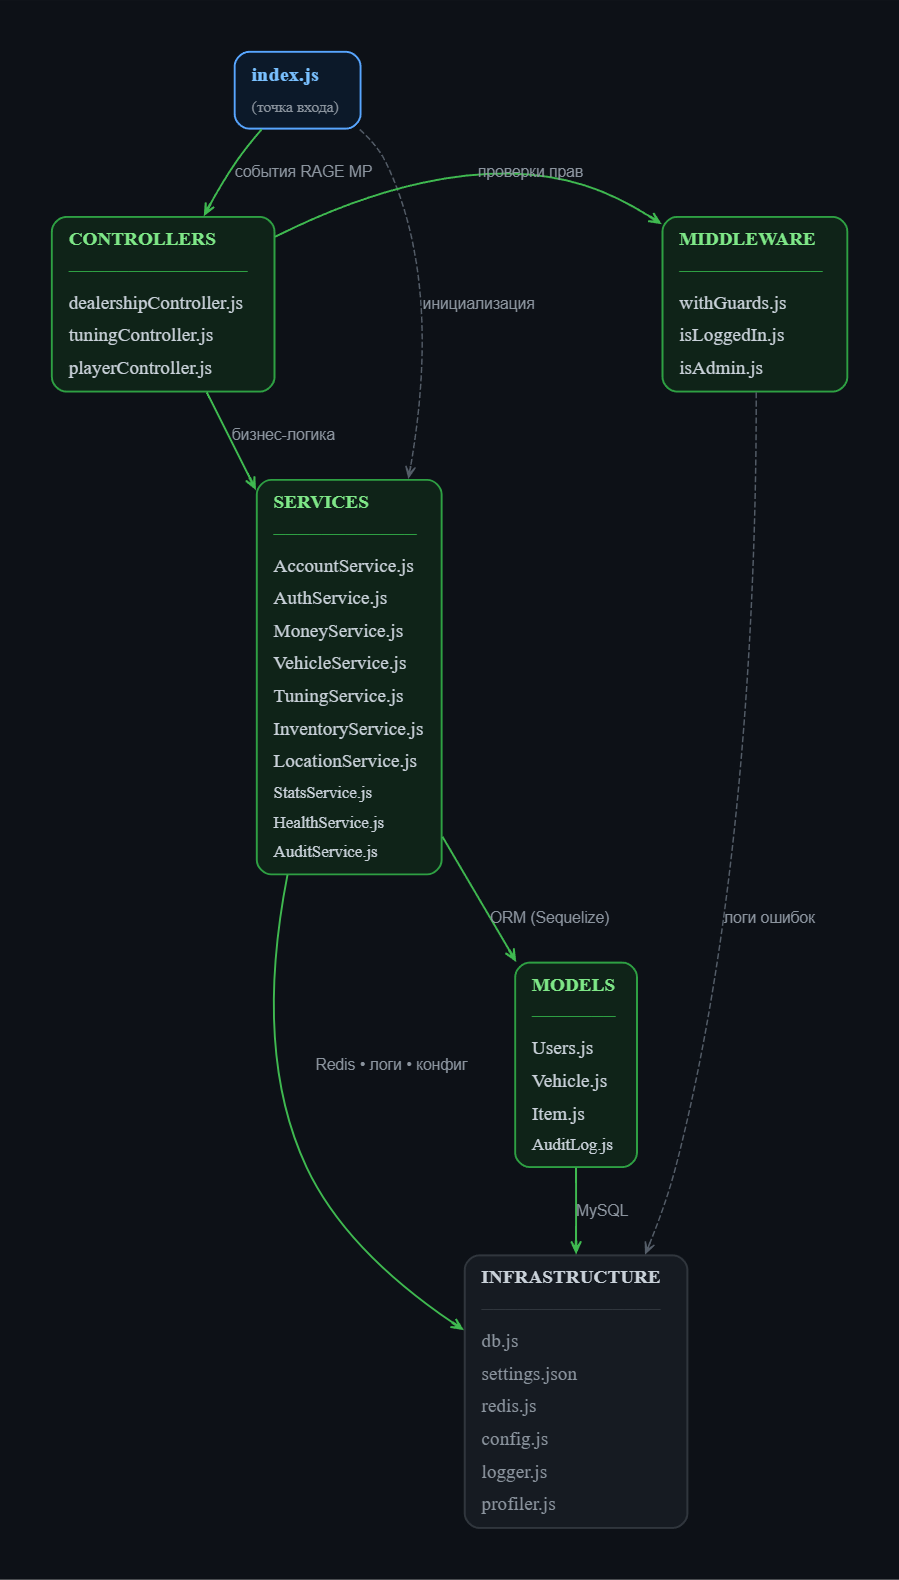
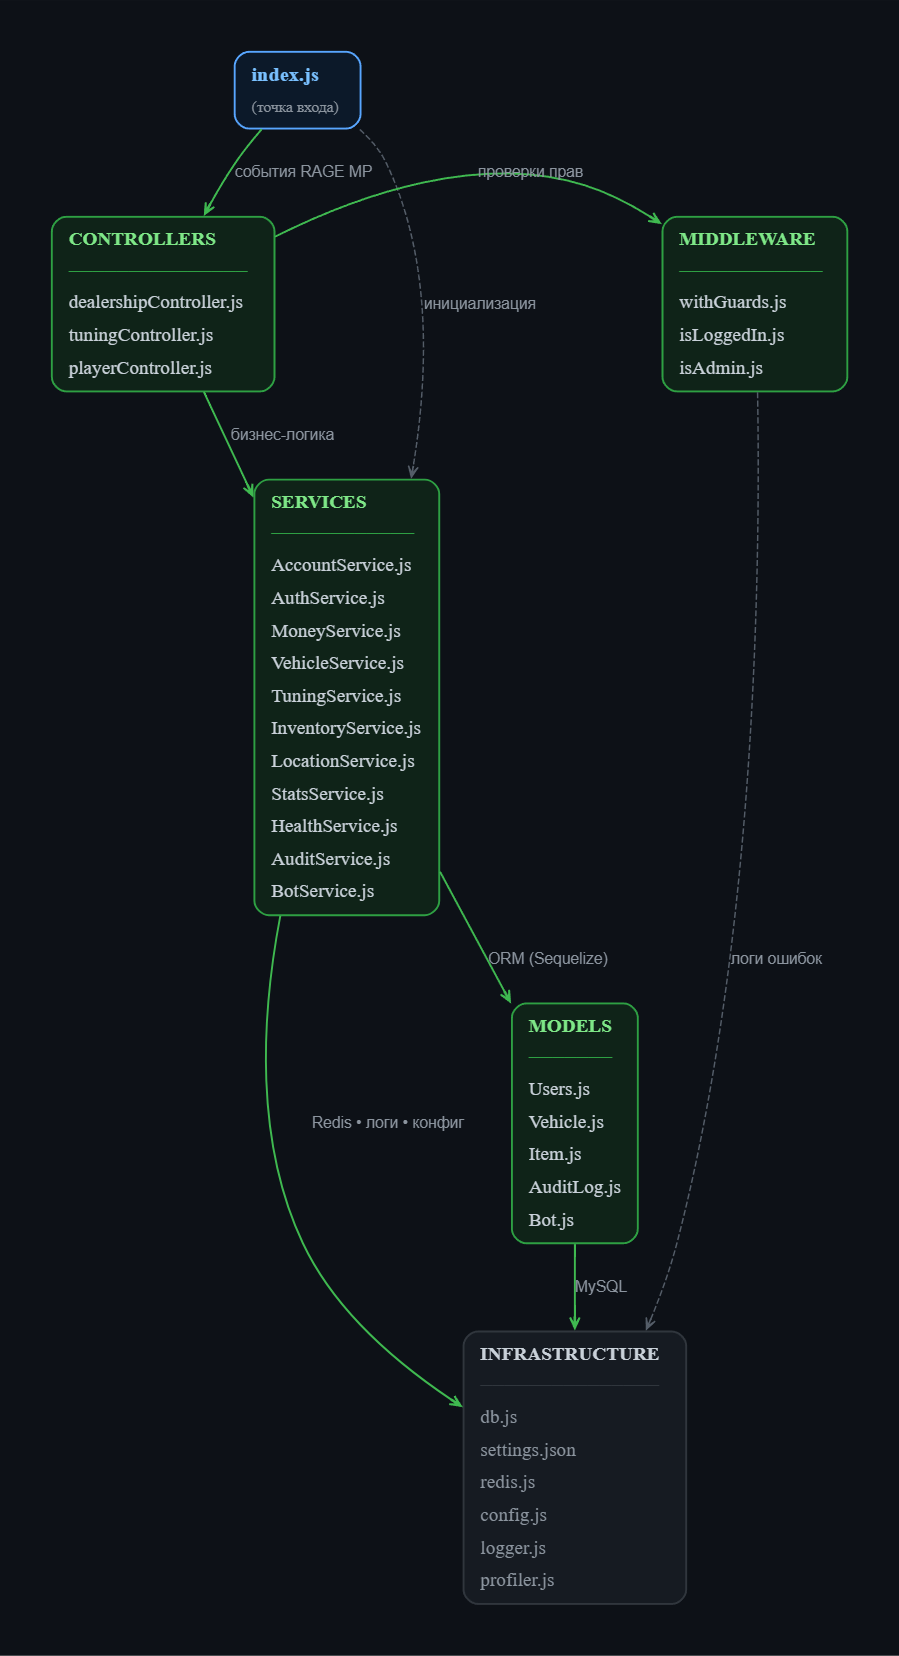
Docs: BotService в README и графе

diff --git a/README.md b/README.md
@@ -45,6 +45,7 @@
 | `StatsService` | Агрегации экономики (SUM/AVG/MAX), топ игроков, онлайн; Redis-кэш с TTL |
 | `HealthService` | Здоровье игрока, смерть, респаун в больнице; clamp HP 1–100 |
 | `AuditService` | Журнал бизнес-событий (audit_logs); коалесценция провалов через Redis — защита БД от флуда |
+| `BotService` | Тестовый бот: спавн, ник, приветствие по радиусу |
 
 ### 2. Контроллеры (`controllers/`) — тонкие обработчики событий
 
